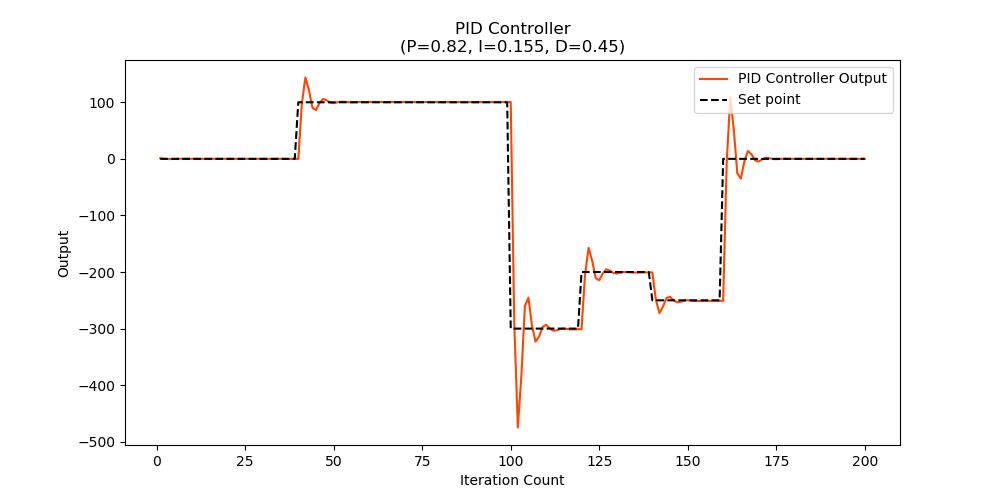
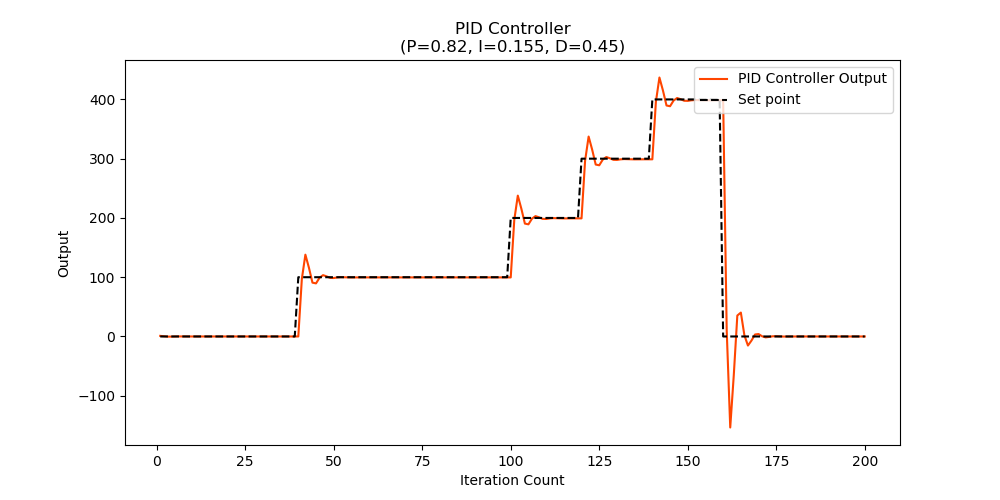
Inicio TP

diff --git a/reservatorio_conico.py b/reservatorio_conico.py
@@ -6,47 +6,43 @@
 # Professor: Armando Alves Neto                                                #
 #                                                                              #
 # Nome: Andre Vinicius de Oliveira          Matricula: 2013065935              #
-# Nome: Grabriel                                                               #
+# Nome: Luiz Gabriel Aragão Oliveira        Matricula:2014086480               #
 #                                                                              #
 # Versão: 1.00                                                                 #
 # Data: 22/05/2019                                                             #
 #                                                                              #
 #                                 Python 3.7.3                                 #
 ################################################################################
- 
-import matplotlib.pyplot as plt
-import numpy as np
-import random as rand
-import simple_pid as pid
+import threading
+import time
 
-Cv = 0.5
-R0 = 100
-R1 = 10
-H = 10
-Pi = 3.14
-alpha = (R1 - R0)/H
+message = "Thread sendo executada: "
+i = 0
 
-tam = input('Digite o range do array: ')
+def process_thread():
+   global message
+   print(message + "process_thread" + ".")
 
-try:
-   tam = int(tam)
-except ValueError:
-   print("O valor digitado não é um número")
-   exit()
+def softPLC_thread():
+   global message
+   print (message + "softPLC_thread" + ".")
 
-h = [0]*tam
-Qout = [0]*tam
-Qin = [0]*tam
+def synoptic_process():
+   global message
+   global i
+   t1 = threading.Thread(target=process_thread)
+   t1.start()
+   t2 = threading.Thread(target=softPLC_thread)
+   t2.start()
+   print (message + "synoptic_process" + ".")
 
-for i in range(tam):
-   h[i] = i
-   Qout [i] = Cv * (h[i]**0.5)
+t = threading.Thread(target=synoptic_process)
+t.start()
 
+while t.isAlive():
+   i = 0
 
-
-plt.plot( h, Qout)
-plt.title("Volume X Altura")
-plt.show()
-
+print ("Threads morreram")
+print ("Finalizando programa")
 
 ################################ Fim do Programa ###############################

diff --git a/meu_pid.py b/meu_pid.py
@@ -89,8 +89,8 @@ def pid_simulator():
 
     # gain values          # P = 0.82 / I = 0.15 / D = 0.40
     proportional_gain_value = 0.82
-    integral_gain_value = 0.155
-    derivative_gain_value = 0.45
+    integral_gain_value = 0.15
+    derivative_gain_value = 0.40
     #proportional_gain_value = 1
     #integral_gain_value = 0
     #derivative_gain_value = 0
@@ -112,11 +112,11 @@ def pid_simulator():
         if x_value == number_of_iterations / 5:
             setpoint_value = 100
         if x_value == number_of_iterations / 2:
-            setpoint_value = -300
+            setpoint_value = 200
         if x_value == 6 * (number_of_iterations / 10):
-            setpoint_value = -200
+            setpoint_value = 300
         if x_value == 7 * (number_of_iterations / 10):
-            setpoint_value = -250
+            setpoint_value = 400
         if x_value == (number_of_iterations - (number_of_iterations / 5)):
             setpoint_value = 0
 
